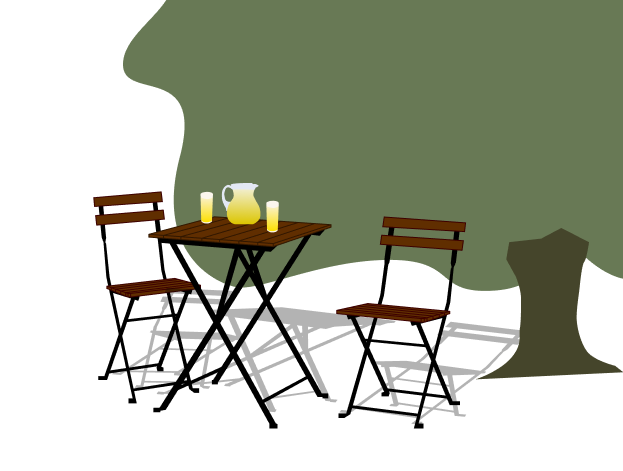
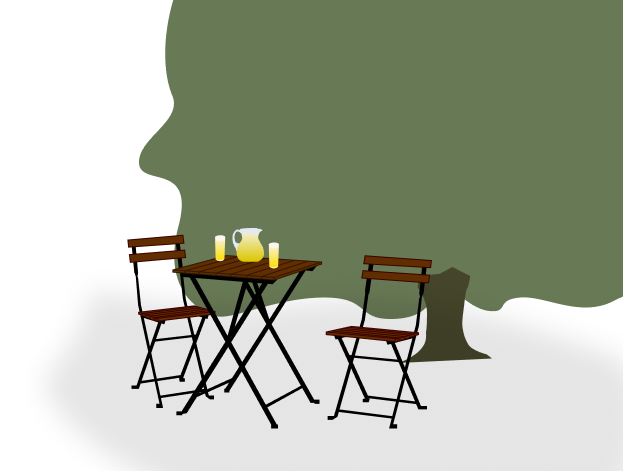
update pics, margins devices, sekce akce added

diff --git a/css/style.css b/css/style.css
@@ -656,7 +656,7 @@ p {
    ==================================== */
 
 .menu-section {
-    padding: 4rem 2rem;
+    padding: 2rem 2rem;
     background-color: var(--Background-color);
     width: 100%;
 }
@@ -799,7 +799,7 @@ p {
    O nás Sekce
    ==================================== */
 .about-section {
-    padding: 4rem 2rem;
+    padding: 2ch 2rem;
     background-color: #FAFAFA;
     width: 100%;
     align-items: center;
@@ -818,7 +818,6 @@ p {
    ==================================== */
 
 .team-section {
-    padding: 2rem 2rem;
     width: 100%;
     background-color: #FAFAFA;
 }
@@ -944,6 +943,10 @@ TEAM GRID - DESKTOP
 
 @media (max-width:1199px) {
 
+    .about-section {
+            padding: 2rem 1rem;
+        }
+        
     .team-grid {
 
         justify-content: flex-start;
@@ -969,11 +972,6 @@ TEAM GRID - DESKTOP
    ==================================== */
 
 @media (max-width: 767px) {
-
-    .team-section {
-        padding: 2rem 1rem;
-    }
-
 
     .team-grid {
 
@@ -1036,7 +1034,6 @@ TEAM GRID - DESKTOP
    ==================================== */
 
 .garden-section {
-    padding: 2rem 2rem;
     width: 100%;
 }
 
@@ -1080,9 +1077,6 @@ TEAM GRID - DESKTOP
 }
 
 @media (max-width: 767px) {
-    .garden-section {
-        padding: 2rem 1rem;
-    }
 
     .garden-container {
         grid-template-columns: 1fr;
@@ -1106,7 +1100,6 @@ TEAM GRID - DESKTOP
    ==================================== */
 
 .interior-section {
-    padding: 2rem 2rem;
     background-color: #FAFAFA;
     width: 100%;
 }
@@ -1150,9 +1143,6 @@ TEAM GRID - DESKTOP
 }
 
 @media (max-width: 767px) {
-    .interior-section {
-        padding: 2rem 1rem;
-    }
 
     .interior-container {
         grid-template-columns: 1fr;
@@ -1171,6 +1161,75 @@ TEAM GRID - DESKTOP
     .interior-text h2 {
         text-align: center;
     }
+}
+
+/* ====================================
+   AKCE SEKCE
+   ==================================== */
+
+.events-section {
+    width: 100%;
+    padding: 2rem 2rem;
+    background-color: #FAFAFA;
+}
+
+
+/* OBSAH */
+
+.events-container {
+    max-width: 36rem;
+    margin: 0 auto;
+}
+
+
+/* HLAVNÍ NADPIS */
+
+.events-container>h2 {
+    text-align: center;
+}
+
+
+/* NADPISY JEDNOTLIVÝCH AKCÍ */
+
+.events-container h3 {
+    text-align: left;
+}
+
+
+/* TEXT */
+
+.events-container p {
+    padding-bottom: 2rem;
+    margin-left: 0;
+    margin-right: 0;
+
+    text-align: left;
+}
+
+
+/* ====================================
+   TABLET
+   ==================================== */
+
+@media (max-width: 1199px) {
+
+    .events-section {
+        padding: 2rem 1rem;
+    }
+
+}
+
+
+/* ====================================
+   MOBILE
+   ==================================== */
+
+@media (max-width: 767px) {
+
+    .events-section {
+        padding: 2rem 1rem;
+    }
+
 }
 
 /* ====================================

diff --git a/index.html b/index.html
@@ -315,6 +315,21 @@
     </div>
 </section>
 
+    <!-- AKCE -->
+<section class="events-section">
+
+    <div class="events-container">
+
+        <h2>Chystáme pro vás</h2>
+
+        <h3>Mexický večer</h3>
+        <p>
+            Text první akce...
+        </p>
+
+    </div>
+
+</section>
 
     <!-- FOOTER -->
     <footer id="contact" class="footer">
@@ -324,7 +339,7 @@
                 <div class="footer-column">
                     <h3>Otevírací doba</h3>
                     <img src="assets/icons/coffee-bean.svg" alt="" class="footer-icon">
-                    <p>Pondělí - Sobota, 9:00 - 23:00<br>Neděle: 9:00 - 16:00</br></p>
+                    <p>Pondělí - Sobota: 9:00 - 23:00<br>Neděle: 9:00 - 16:00</br></p>
                 </div>
                 <div class="footer-column">
                     <h3>Adresa</h3>
